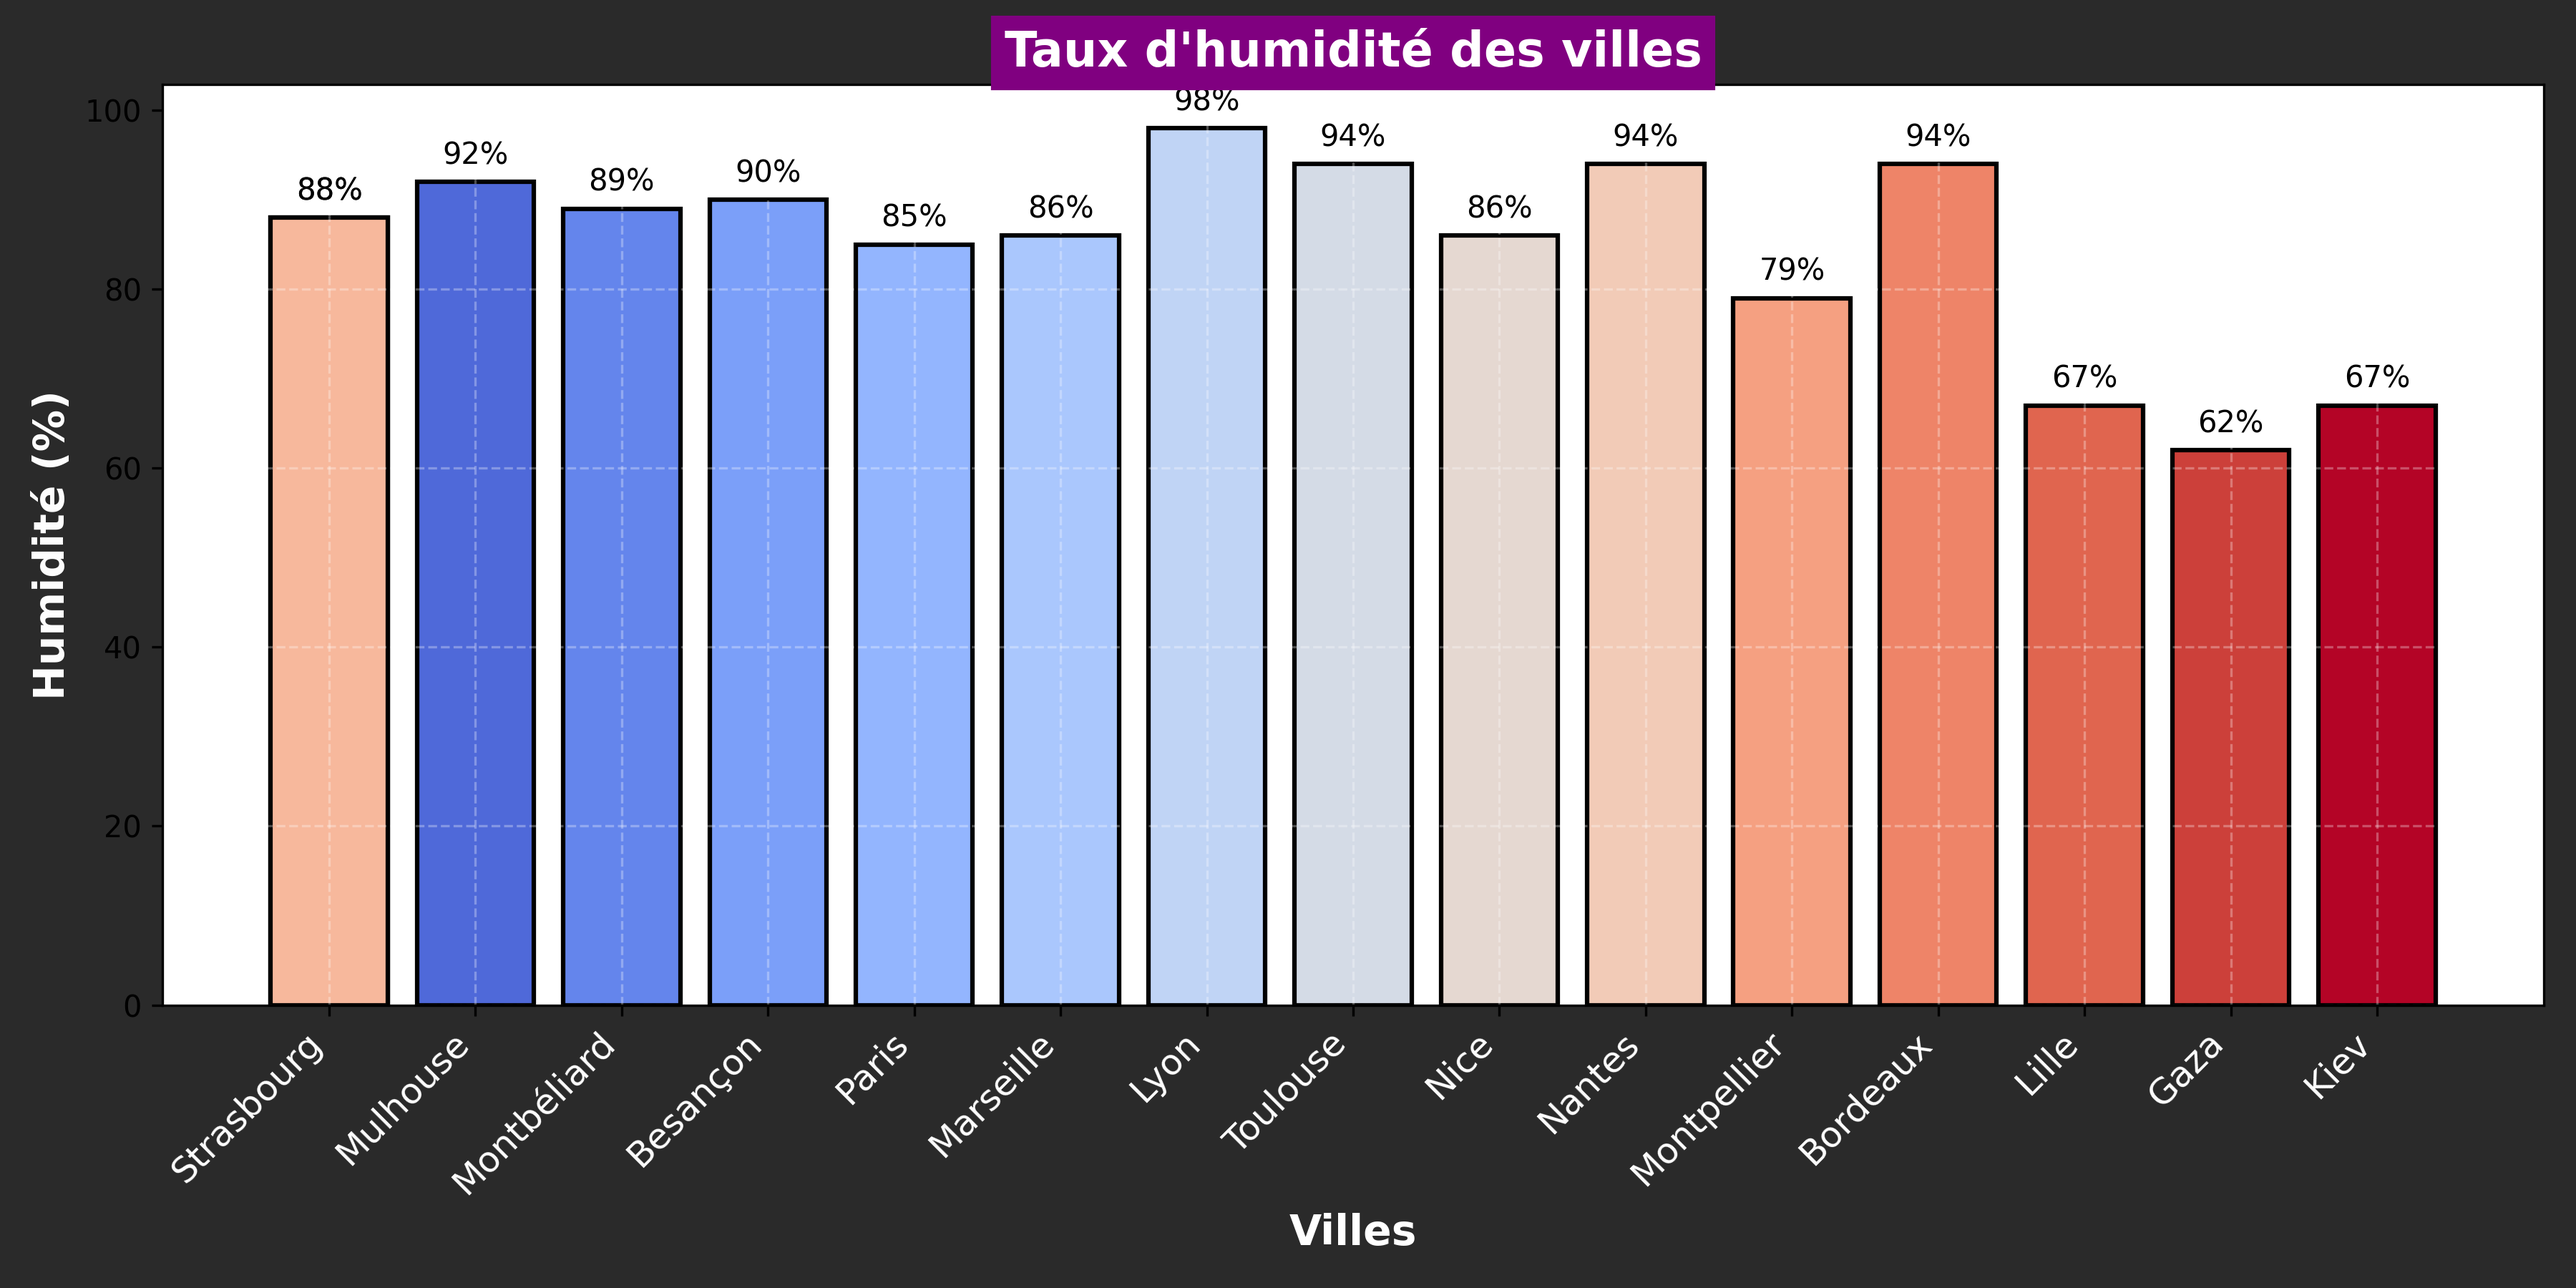
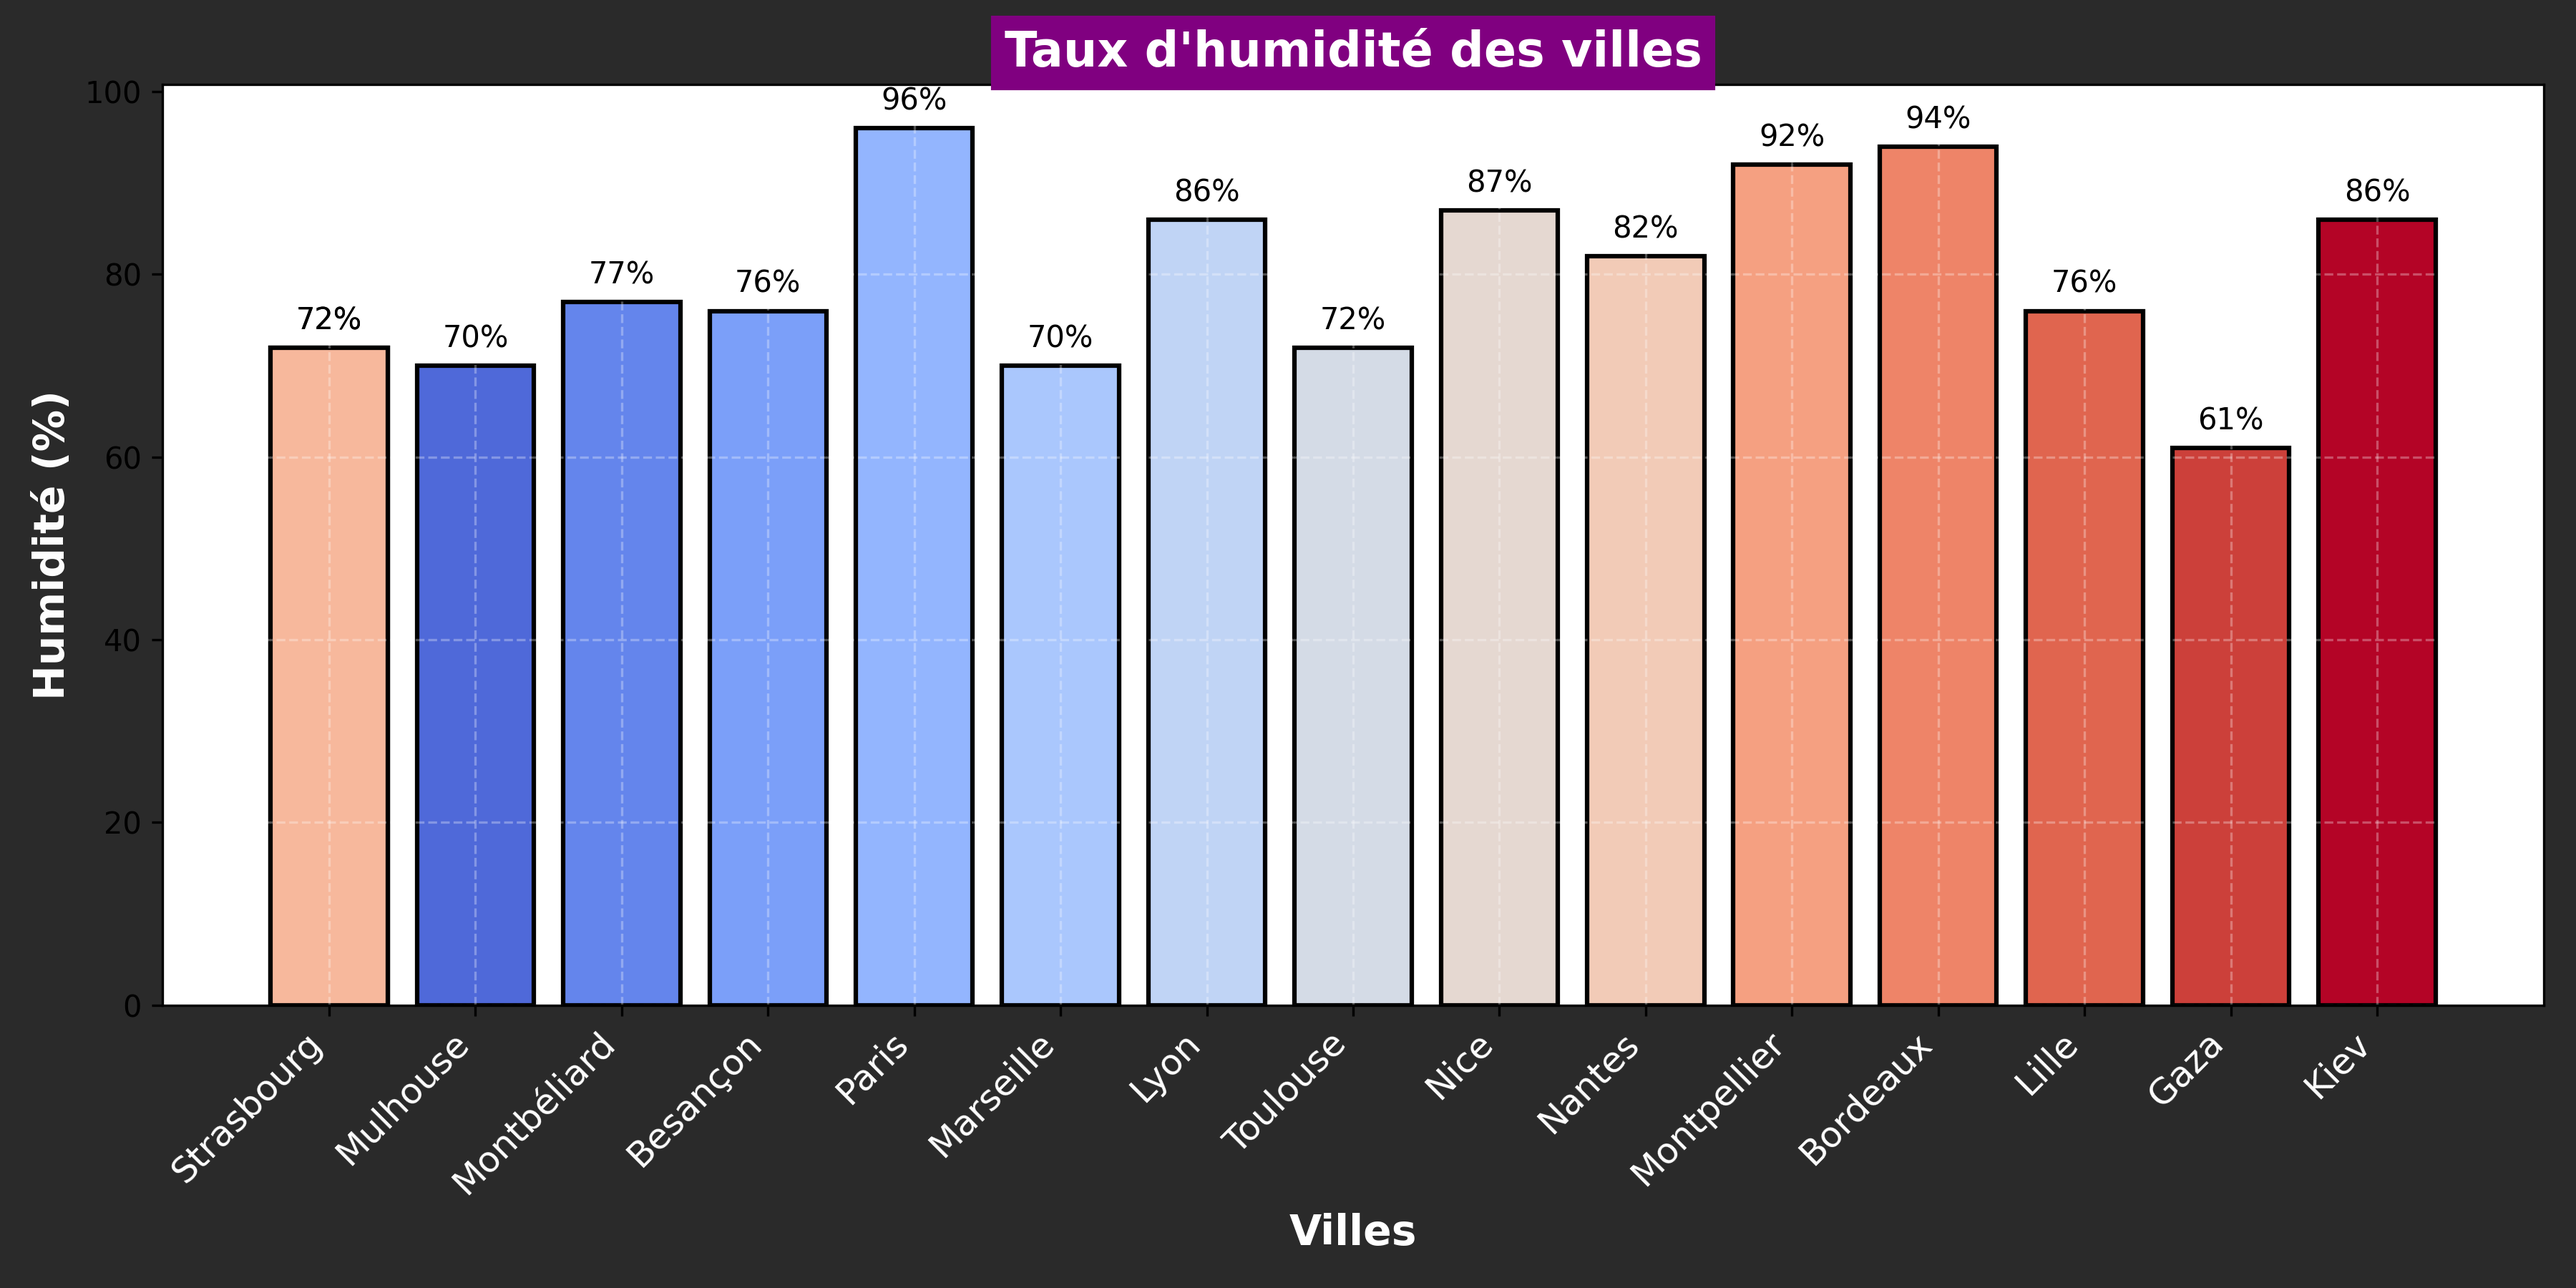
Mise à jour de la météo et ajout du graphique d'humidité

diff --git a/README.md b/README.md
@@ -24,103 +24,103 @@ Ce repo contient plusieurs workflows GitHub Actions :
 ## Météo actuelle :
 ## Météo des grandes villes + Gaza et Kiev 🌍
 
-🕒 Mise à jour : 05/06/2025 08:18:45
+🕒 Mise à jour : 06/06/2025 08:18:48
 
-### 🌍 Strasbourg ☀
-**Conditions :** ciel dégagé
-**Température :** 16.02°C
-**Humidité :** 88%
-**Vent :** 2.06 m/s
+### 🌍 Strasbourg 🌥
+**Conditions :** couvert
+**Température :** 19.02°C
+**Humidité :** 72%
+**Vent :** 5.66 m/s
 
 ### 🌍 Mulhouse ☀
 **Conditions :** ciel dégagé
-**Température :** 14.87°C
-**Humidité :** 92%
-**Vent :** 1.03 m/s
+**Température :** 19.62°C
+**Humidité :** 70%
+**Vent :** 2.68 m/s
 
 ### 🌍 Montbéliard 🌥
 **Conditions :** nuageux
-**Température :** 15.54°C
-**Humidité :** 89%
-**Vent :** 2.08 m/s
+**Température :** 19.43°C
+**Humidité :** 77%
+**Vent :** 6.37 m/s
 
 ### 🌍 Besançon 🌥
-**Conditions :** couvert
-**Température :** 13°C
-**Humidité :** 90%
-**Vent :** 1.85 m/s
+**Conditions :** nuageux
+**Température :** 17.72°C
+**Humidité :** 76%
+**Vent :** 5.56 m/s
 
 ### 🌍 Paris 🌥
-**Conditions :** couvert
-**Température :** 14.19°C
-**Humidité :** 85%
-**Vent :** 5.14 m/s
+**Conditions :** bruine légère
+**Température :** 13.8°C
+**Humidité :** 96%
+**Vent :** 3.09 m/s
 
 ### 🌍 Marseille 🌥
-**Conditions :** nuageux
-**Température :** 18.39°C
-**Humidité :** 86%
-**Vent :** 0.77 m/s
+**Conditions :** peu nuageux
+**Température :** 18.62°C
+**Humidité :** 70%
+**Vent :** 1.58 m/s
 
 ### 🌍 Lyon 🌥
 **Conditions :** couvert
-**Température :** 11.51°C
-**Humidité :** 98%
-**Vent :** 0.86 m/s
+**Température :** 14.52°C
+**Humidité :** 86%
+**Vent :** 2.04 m/s
 
 ### 🌍 Toulouse 🌥
-**Conditions :** nuageux
-**Température :** 15.99°C
-**Humidité :** 94%
-**Vent :** 1.03 m/s
-
-### 🌍 Nice 🌥
 **Conditions :** couvert
-**Température :** 14.16°C
-**Humidité :** 86%
-**Vent :** 0.77 m/s
+**Température :** 18.99°C
+**Humidité :** 72%
+**Vent :** 1.54 m/s
 
-### 🌍 Nantes 🌧
-**Conditions :** pluie modérée
-**Température :** 14.96°C
-**Humidité :** 94%
+### 🌍 Nice ☀
+**Conditions :** ciel dégagé
+**Température :** 14.16°C
+**Humidité :** 87%
+**Vent :** 0.31 m/s
+
+### 🌍 Nantes 🌥
+**Conditions :** nuageux
+**Température :** 15.96°C
+**Humidité :** 82%
 **Vent :** 2.57 m/s
 
-### 🌍 Strasbourg ☀
-**Conditions :** ciel dégagé
-**Température :** 16.02°C
-**Humidité :** 88%
+### 🌍 Strasbourg 🌥
+**Conditions :** couvert
+**Température :** 19.02°C
+**Humidité :** 72%
+**Vent :** 5.66 m/s
+
+### 🌍 Montpellier 🌥
+**Conditions :** couvert
+**Température :** 17.5°C
+**Humidité :** 92%
 **Vent :** 2.06 m/s
 
-### 🌍 Montpellier ☀
-**Conditions :** ciel dégagé
-**Température :** 19.16°C
-**Humidité :** 79%
+### 🌍 Bordeaux 🌥
+**Conditions :** nuageux
+**Température :** 18.15°C
+**Humidité :** 94%
 **Vent :** 3.09 m/s
 
-### 🌍 Bordeaux 🌥
-**Conditions :** couvert
-**Température :** 15.15°C
-**Humidité :** 94%
-**Vent :** 4.12 m/s
-
 ### 🌍 Lille 🌥
-**Conditions :** nuageux
-**Température :** 14.8°C
-**Humidité :** 67%
-**Vent :** 4.63 m/s
+**Conditions :** partiellement nuageux
+**Température :** 13.73°C
+**Humidité :** 76%
+**Vent :** 5.14 m/s
 
 ### 🌍 Gaza ☀
 **Conditions :** ciel dégagé
-**Température :** 25.87°C
-**Humidité :** 62%
-**Vent :** 0.93 m/s
+**Température :** 27.13°C
+**Humidité :** 61%
+**Vent :** 2.32 m/s
 
-### 🌍 Kiev ☀
-**Conditions :** ciel dégagé
-**Température :** 22.01°C
-**Humidité :** 67%
-**Vent :** 4.29 m/s
+### 🌍 Kiev 🌥
+**Conditions :** nuageux
+**Température :** 22.62°C
+**Humidité :** 86%
+**Vent :** 0.45 m/s
 
 <p align='center'><img src='https://raw.githubusercontent.com/khoa083/khoa/main/Khoa_ne/img/Rainbow.gif' width='100%' style='border-radius: 5px; border: 3px solid #39FF14; box-shadow: 0 0 10px #39FF14, 0 0 20px #39FF14;' /></p>
 
